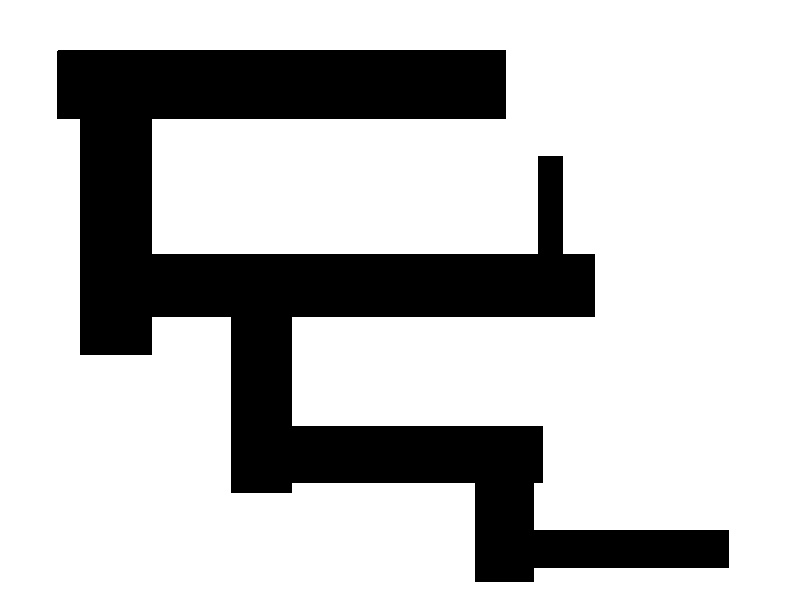
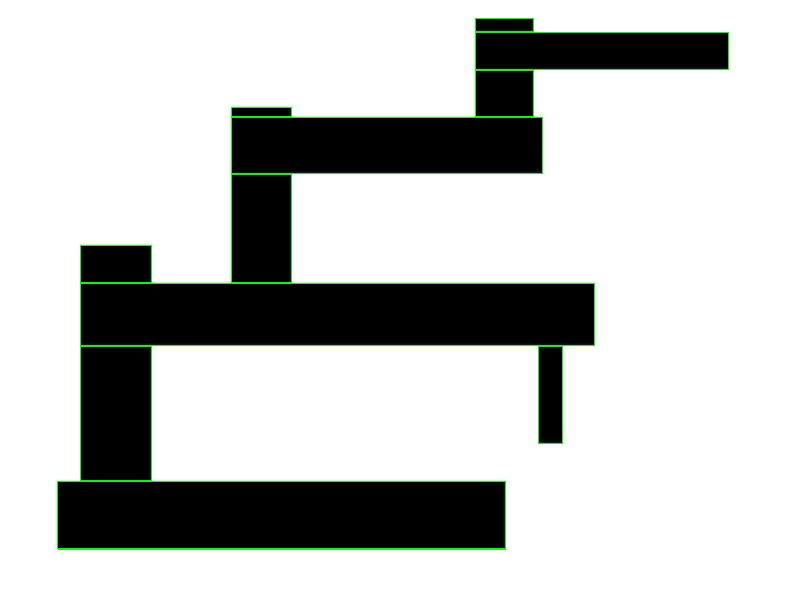
nearly done

diff --git a/world_generator.cpp b/world_generator.cpp
@@ -1,0 +1,112 @@
+#include <iostream>
+#include "xml_interface.hpp"
+#include "tinyxml2.h"
+#include "world_interface.hpp"
+#include <string>
+using namespace std;
+using namespace tinyxml2;
+
+
+void add_model(XMLDocument &doc,string model_name,XMLElement *world, string pose){
+
+	XMLElement *terrain = doc.NewElement("include");
+    world->InsertEndChild(terrain);
+
+    XMLElement *terrain_uri = doc.NewElement("uri");
+    terrain_uri->SetText(caster("model://"+model_name));
+    terrain->InsertEndChild(terrain_uri);
+
+    XMLElement *pPose = doc.NewElement("pose");
+    pPose->SetText(caster(pose));
+    terrain->InsertEndChild(pPose);
+
+
+}
+
+void generator(double rows, double colms,double scale){
+
+	XMLDocument xmlDoc;
+
+	XMLDeclaration* declaration=xmlDoc.NewDeclaration();
+    xmlDoc.InsertFirstChild(declaration);
+
+    XMLElement *sdfversion = xmlDoc.NewElement("sdf");
+    sdfversion->SetAttribute("version","1.5");
+    xmlDoc.InsertEndChild(sdfversion);
+
+    XMLElement *pWorld = xmlDoc.NewElement("world");
+    pWorld->SetAttribute("name","default");
+    sdfversion->InsertEndChild(pWorld);
+
+    string walls_x;
+    string walls_y;
+
+    walls_y=to_string(-(rows/2)*scale);
+    walls_x=to_string(-(colms/2)*scale);
+
+    add_model(xmlDoc,"new_model",pWorld,walls_x+" "+walls_y+" 0 0 0 0");
+
+
+	
+
+	
+	string model;
+	string pose;
+	char disected_pose[11];
+
+	
+	getline(cin,model);
+
+
+	while(1){
+
+		cout<<"give the name and position of the models that you want to generate inside the world."<<endl;
+		cout<<"give the name press enter for next one. enter q to quit."<<endl;
+
+				
+		getline(cin,model);
+		
+		cout<<model<<endl;
+		
+		
+
+		if(model=="q")
+			break;
+		else{
+
+			cout<<"give the position of the model relative to the origin of the world"<<endl;
+			
+
+			getline(cin,pose);
+			
+			cout<<"uras"<<endl;
+			/*
+			int index=0;
+			while(index<11){
+				cout<<disected_pose[index];
+				pose=pose+disected_pose[index];
+				index++;
+
+			}*/
+
+			add_model(xmlDoc,model,pWorld,pose);
+
+
+		}
+
+	}
+
+
+	XMLElement *sun = xmlDoc.NewElement("include");
+    pWorld->InsertEndChild(sun);
+
+    XMLElement *sun_uri= xmlDoc.NewElement("uri");
+    sun_uri->SetText("model://sun");
+    sun->InsertEndChild(sun_uri);
+
+    XMLError eResult = xmlDoc.SaveFile("generated_world.world");
+
+
+
+
+}

diff --git a/main.cpp b/main.cpp
@@ -3,6 +3,7 @@
 #include <iostream>
 #include "rectangles_interface.hpp"
 #include "xml_interface.hpp"
+#include "world_interface.hpp"
 using namespace std;
 using namespace cv;
 int main(){
@@ -13,6 +14,11 @@ int main(){
     cv::Mat image;
     cv::Mat binary_image;
     image = cv::imread("deneme.jpg");
+    flip(image,image,0);
+
+    int rows = image.rows;
+    int cols = image.cols;
+
     threshold(image,binary_image,100,255,CV_THRESH_BINARY);
 
     double scale;
@@ -22,6 +28,8 @@ int main(){
     int **ptr_to_rect=generate_borders(binary_image);
     
     parser_func(ptr_to_rect,scale);
+
+    generator((double)rows, (double)cols,scale);
 
 
 

diff --git a/compose_rectangles.cpp b/compose_rectangles.cpp
@@ -111,7 +111,7 @@ int** generate_borders(cv::Mat image){
         Point pt1(x1,y1);
         Point pt2(x2,y2);
 
-        //rectangle(image,pt1,pt2,cv::Scalar(0,255,0),1);
+        rectangle(image,pt1,pt2,cv::Scalar(0,255,0),1);
 
     }
 

diff --git a/xml_interface.hpp b/xml_interface.hpp
@@ -1,2 +1,4 @@
-
+using namespace std;
 void parser_func(int** rectangles,double scale);
+
+const char* caster(string a);

diff --git a/xml_parser.cpp b/xml_parser.cpp
@@ -3,7 +3,7 @@
 #include "tinyxml2.h"
 
 using namespace tinyxml2;
-using namespace std;
+
 
 struct basic_model{
 

diff --git a/world_interface.hpp b/world_interface.hpp
@@ -1,0 +1,2 @@
+
+void generator(double rows,double colms,double scale);
